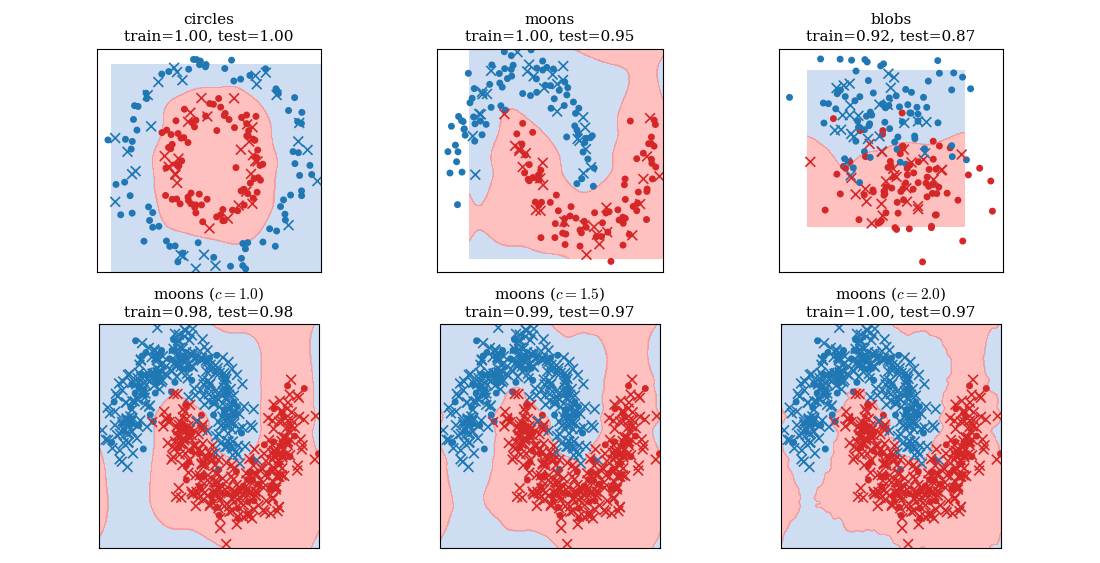
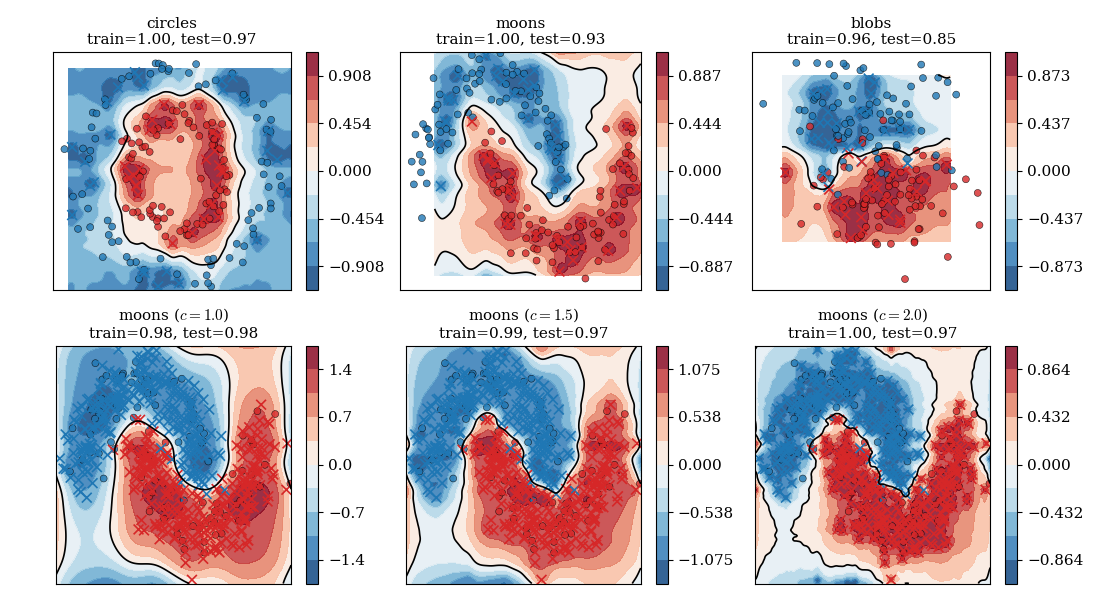
comment...

diff --git a/svm_phase_encoding.py b/svm_phase_encoding.py
@@ -72,15 +72,28 @@ def plot_decision(ax, Xtr, ytr, Xte, yte, c, title, mode="abs2"):
                          np.linspace(x1min, x1max, 250))
     grid = np.c_[xx.ravel(), yy.ravel()]
     Kgrid = kernel_eq7(grid, Xtr, c, mode=mode)
-    Z = clf.predict(Kgrid).reshape(xx.shape)
 
-    ax.contourf(xx, yy, Z, cmap=cmap_regions, alpha=0.6)
+    Z = clf.decision_function(Kgrid) # evaluate f(x) on grid
+    Z = Z.reshape(xx.shape)
+
+    L = np.max(np.abs(Z))  # for color scale
+    levels = np.linspace(-L, L, 11)
+
+    im = ax.contourf(
+        xx, yy, Z,
+        levels=levels,
+        cmap="RdBu_r",
+        alpha=0.85
+    )
+
+    # decision boundary f(x)=0
+    ax.contour(xx, yy, Z, levels=[0], colors="k", linewidths=1.2)
 
     # test points (filled circles)
     ax.scatter(
         Xte[:,0], Xte[:,1],
         c=yte, cmap=cmap_points,
-        s=25, edgecolors="none"
+        s=25, edgecolors="k", linewidths=0.4, alpha=0.8
     )
 
     # training points (crosses)
@@ -98,6 +111,7 @@ def plot_decision(ax, Xtr, ytr, Xte, yte, c, title, mode="abs2"):
     ax.set_xticks([])
     ax.set_yticks([])
     ax.set_aspect("equal")
+    plt.colorbar(im, ax=ax, fraction=0.046)
 
 # ---------- Data + reproduction (row 1) ----------
 def prep_data(generator, n_train, n_test, seed=0):
@@ -115,7 +129,7 @@ datasets = [
 
 fig, axes = plt.subplots(2, 3, figsize=(11, 6))
 plt.subplots_adjust(wspace=0.15, hspace=0.35)
-c0 = 1.0
+c0 = 1.5
 mode = "abs2"  # try "real" if you want the literal overlap (may be less robust)
 
 for j, (name, gen) in enumerate(datasets):
